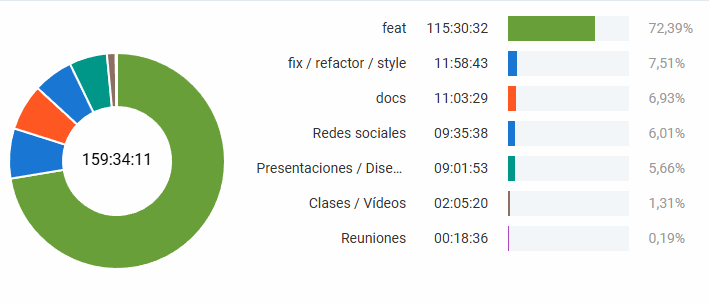
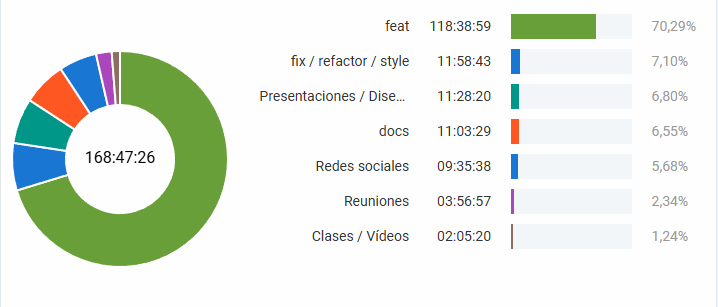
docs: Actualizar informe de tiempo semana 5 y realizar informe semana 6

diff --git a/docs/03_reports/time_reports/time_report_week_6.md b/docs/03_reports/time_reports/time_report_week_6.md
@@ -1,5 +1,5 @@
 ---
-title: "INFORME DE TIEMPO - SEMANA 5 (28/02-06/03)"       # CHANGE IF NEEDED
+title: "INFORME DE TIEMPO - SPRINT 1 (21/02 - 13/03)"       # CHANGE IF NEEDED
 subtitle: "FISIO FIND - Grupo 6 - #SPRINT 1"
 author: [Alberto Carmona Sicre, Antonio Macías Ferrera, Benjamín Ignacio Maureira Flores, Francisco Capote García, Daniel Alors Romero, Daniel Fernández Caballero, Daniel Ruiz López, Daniel Tortorici Bartús, Daniel Vela Camacho, Delfín Santana Rubio, Guadalupe Ridruejo Pineda, Julen Redondo Pacheco, Miguel Encina Martínez, Francisco Mateos Villarejo, Pablo Fernández Pérez, Ramón Gavira Sánchez, Rafael Pulido Cifuentes]
 date: "06/03/2025"                                        # CHANGE IF NEEDED
@@ -14,7 +14,7 @@ colorlinks: true
 linkcolor: blue
 titlepage-background: "../../.backgrounds/background4V.pdf"  # CHANGE IF NEEDED
 header-left: "CLOCKIFY REPORT"                            # CHANGE IF NEEDED
-header-right: "06/03/2025"                                # CHANGE IF NEEDED
+header-right: "13/03/2025"                                # CHANGE IF NEEDED
 footer-left: "FISIO FIND"
 documentclass: scrartcl
 classoption: "table"
@@ -26,7 +26,7 @@ classoption: "table"
 </p>
 
 <h1 align="center" style="font-size: 30px; font-weight: bold;">
-  FISIO FIND  -  INFORME DE TIEMPO 28/02-06/03
+  FISIO FIND  -  INFORME DE TIEMPO SPRINT 1 (21/02 - 13/03)
 </h1>
 
 <br>
@@ -59,9 +59,9 @@ classoption: "table"
 
 - **Miembros del grupo:** Alberto Carmona Sicre, Antonio Macías Ferrera, Benjamín Ignacio Maureira Flores, Francisco Capote García, Daniel Alors Romero, Daniel Fernández Caballero, Daniel Ruiz López, Daniel Tortorici Bartús, Daniel Vela Camacho, Delfín Santana Rubio, Guadalupe Ridruejo Pineda, Julen Redondo Pacheco, Miguel Encina Martínez, Francisco Mateos Villarejo, Pablo Fernández Pérez, Ramón Gavira Sánchez, Rafael Pulido Cifuentes.
 
-- **Autores:** Alberto Carmona Sicre
+- **Autores:** Alberto Carmona Sicre, Rafael Pulido Cifuentes
 
-- **Fecha de Creación:** 06/03/2025  
+- **Fecha de Creación:** 13/03/2025  
 
 - **Versión:** v1.0
 
@@ -76,8 +76,7 @@ classoption: "table"
 
 | Fecha      | Versión | Realizada por                    | Descripción de los cambios |
 |------------|---------|----------------------------------|----------------------------|
-| 06/03/2025 | v1.0    | Alberto Carmona Sicre            | Elaboración de la primera versión del documento de informe de tiempo de la semana 5 |
-| 13/03/2025 | v1.1    | Alberto Carmona Sicre            | Actualización de los apartados con las horas faltantes del día 06/03/2025 |
+| 13/03/2025 | v1.0    | Alberto Carmona Sicre            | Elaboración de la primera versión del documento de informe de tiempo del sprint 1 |
 
 
 <br>
@@ -88,6 +87,8 @@ classoption: "table"
 
 
 # 1. PROYECTOS
+
+**IMPORTANTE: LAS HORAS SE HAN CALCULADO HASTA LAS 14:30 DEL DÍA 06/03/2025**  
 
 ## 1.1. Definición de cada proyecto
 A continuación, se muestran los posibles tipos de tareas en las que pueden trabajar los integrantes del equipo, junto con una breve definición de estas:
@@ -110,43 +111,74 @@ A continuación, se muestran los posibles tipos de tareas en las que pueden trab
 
 - **Reuniones:** como su nombre indica, son aquellas tareas en las que se invierte el tiempo en reuniones del equipo de carácter general.  
 
-## 1.2. Proyectos realizados en la semana
-En esta semana de trabajo se ha trabajado en los siguientes proyectos:  
+- **Usuarios Piloto:** tareas relacionadas con hacer de usuario piloto de los otros grupos de la asignatura.
 
-1. docs  
+## 1.2. Proyectos realizados durante el sprint
+Durante estas semanas de trabajo se ha trabajado en los siguientes proyectos:  
 
-2. Presentaciones / Diseños  
+1. feat  
 
-3. Reuniones  
+2. Clases/Vídeos  
 
-4. Clases / Vídeos   
+3. docs  
 
-5. feat  
+4. Reuniones   
 
-6. fix/refactor/style  
+5. Presentaciones/Diseños  
 
-7. Redes sociales  
+6. Planificación
+
+7. fix/refactor/style
+
+8. Redes sociales 
+
+9. test
+
+10. Usuarios Piloto
 
 ## 1.3. Proyectos destacados
-Entre los proyectos destacados de la semana, aquellos en los que se ha invertido más tiempo, encontramos el siguiente, que cuenta con hasta 10 veces más horas que el segundo:  
 
-- **feat:** 118:38:59	
+Entre los proyectos más destacados, auqellos en los que se ha invertido más tiempo, encontramos los siguientes:  
+
+- **feat:** 304:47:03
+
+- **Clases/Vídeos:** 127:09:47
+
+-**docs:** 67:28:40
+
+Es bastante apreciable que el primer sprint ha tenido muchas horas de desarrollo de código.
 
 <br>
 
 
 # 2. HORAS TOTALES
-Para esta semana de trabajo, el tiempo total dedicado al proyecto ha sido de 168 horas y 47 minutos.
+Para esta semana de trabajo, el tiempo total dedicado al proyecto ha sido de 6399 horas y 38 minutos.
   
 
 <br>
 
 
 # 3. DESGLOSE
+
 Para una mejor visualización del tiempo dedicado, se realiza un desglose por días, proyectos e integrantes. 
 
 ## 3.1 Desglose por días  
+
 Ordenado de manera cronológica:
+
+- **Viernes 21/02:** 66:39:00  
+
+- **Sábado 22/02:** 23:30:11  
+
+- **Domingo 23/02:** 17:33:46  
+
+- **Lunes 24/02:** 49:17:23  
+
+- **Martes 25/02:** 19:24:56  
+
+- **Miércoles 26/02:** 12:44:04  
+
+- **Jueves 27/02:** 16:12:07
 
 - **Viernes 28/02:** 13:35:09  
 
@@ -162,33 +194,50 @@ Ordenado de manera cronológica:
 
 - **Jueves 06/03:** 31:30:36    
 
+- **Viernes 07/03:** 71:16:33
+
+- **Sábado 08/03:** 29:25:08
+
+- **Domingo 09/03:** 28:02:34
+
+- **Lunes 10/03:** 43:39:48
+
+- **Martes 11/03:** 35:17:16
+
+- **Miércoles 12/03:** 48:49:04
+
+- **Jueves 13/03:** 08:59:00 (Incompleto)
+
 
 <br>
 
 ## 3.2 Desglose por proyectos  
+
 Ordenado de mayor a menor tiempo dedicado en cada proyecto: 
 
-**1. feat:** 118:38:59    	
+**1. feat:** 304:47:03
 
-**2. fix / refactor / style:** 11:58:43   
+**2. Clases/Vídeos:** 127:09:47
 
-**3. Presentaciones / Diseños:** 11:28:20  
+**3. docs:** 67:28:40
 
-**4. docs:** 11:03:29 
+**4. Reuniones:** 47:22:45  
 
-**5. Redes sociales:** 09:35:38
+**5. Presentaciones / Diseños:** 29:40:03
 
-**6. Reuniones:** 03:56:57 
+**6. Planificación:** 27:12:49  
 
-**7. Clases / Vídeos:** 02:05:20    
+**7. fix / refactor / style:** 16:27:16   
 
-**8. Planificación:** hh:mm    
+**8. Redes sociales:** 13:02:17
 
-**9. test:** hh:mm  	 
+**9. test:** 05:44:13
+
+**10. Usuarios Piloto:** 00:43:23
 
 Diagrama de sectores para una mejor visualización de la división:
 
-![Diagrama de proyectos](../../.img/projects_diagram_week_5.png)
+![Diagrama de proyectos](../../.img/projects_diagram_week_6.png)
 
 
 <br>
@@ -197,44 +246,44 @@ Diagrama de sectores para una mejor visualización de la división:
 
 Ordenado por orden alfabético:
 
-**1. Alberto Carmona Sicre** - 10:46:39
+**1. Alberto Carmona Sicre** - 32:33:30
 
-**2. Antonio Macías Ferrera** -  11:51:25
+**2. Antonio Macías Ferrera** -  46:46:35
 
-**3. Benjamín Ignacio Maureira Flores** -  14:27:52
+**3. Benjamín Ignacio Maureira Flores** -  44:46:36
 
-**4. Daniel Alors Romero** - 10:34:25
+**4. Daniel Alors Romero** - 32:08:16
 
-**5. Daniel Fernández Caballero** - 10:24:00
+**5. Daniel Fernández Caballero** - 30:29:56
 
-**6. Daniel Ruiz López**  -  09:20:44
+**6. Daniel Ruiz López**  -  33:16:48
 
-**7. Daniel Tortorici Bartús** - 10:35:55
+**7. Daniel Tortorici Bartús** - 37:44:44
 
-**8. Daniel Vela Camacho** - 06:08:55
+**8. Daniel Vela Camacho** - 43:06:43
 
-**9. Delfín Santana Rubio** - 10:37:01
+**9. Delfín Santana Rubio** - 36:50:56
 
-**10. Francisco Capote García** -  09:26:29
+**10. Francisco Capote García** -  34:34:16
 
-**11. Francisco Mateos Villarejo** -  10:40:35
+**11. Francisco Mateos Villarejo** -  31:11:42
 
-**12. Guadalupe Ridruejo Pineda** - 07:47:59
+**12. Guadalupe Ridruejo Pineda** - 54:04:10
 
-**13. Julen Redondo Pacheco** -  09:20:38
+**13. Julen Redondo Pacheco** -  29:56:43
 
-**14. Miguel Encina Martínez** -  09:34:16
+**14. Miguel Encina Martínez** -  42:16:00
 
-**15. Pablo Fernández Pérez** -  10:08:21
+**15. Pablo Fernández Pérez** -  30:23:27
 
-**16. Ramón Gavira Sánchez**  -  10:18:02
+**16. Ramón Gavira Sánchez**  -  35:24:46
 
-**17. Rafael Pulido Cifuentes** -  06:44:10
+**17. Rafael Pulido Cifuentes** -  44:03:18
 
 Diagrama de sectores para una mejor visualización:
 
-![Diagrama de integrantes](../../.img/users_diagram_week_5_1.png)  
-![Diagrama de integrantes](../../.img/users_diagram_week_5_2.png)  
+![Diagrama de integrantes](../../.img/users_diagram_week_6_1.png)  
+![Diagrama de integrantes](../../.img/users_diagram_week_6_2.png)  
 
 <br>
 
